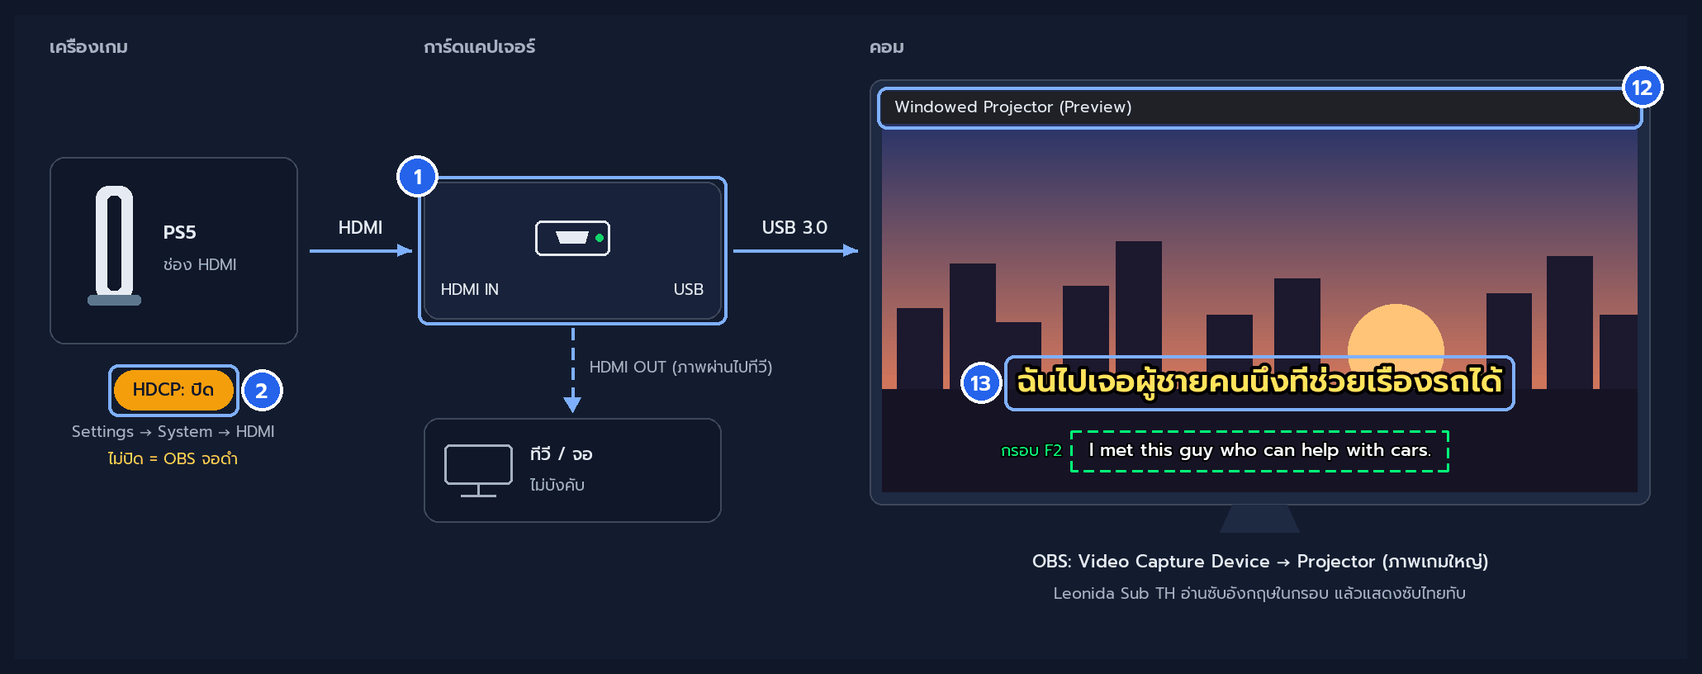
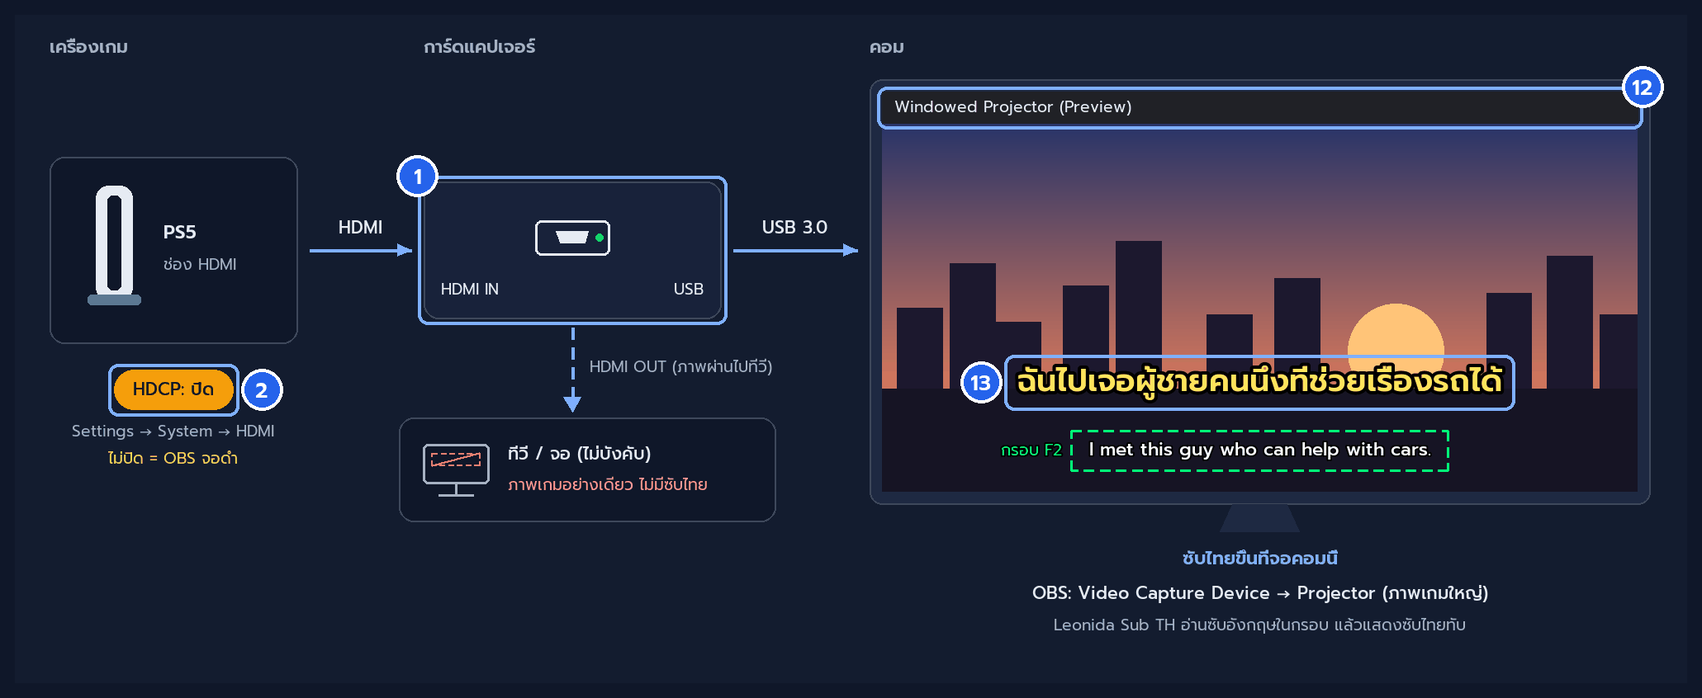
site: sync (107790e)

diff --git a/site/index.html b/site/index.html
@@ -132,6 +132,14 @@
    },
    {
     "@type": "Question",
+    "name": "ซับขึ้นบนทีวีได้ไหม?",
+    "acceptedAnswer": {
+     "@type": "Answer",
+     "text": "ซับไทยขึ้นที่จอคอมเท่านั้น (ทับหน้าต่าง OBS / โปรแกรมการ์ด / Remote Play หรือในจอซับแยก และหน้าเว็บบนมือถือ) ทีวีที่ต่อจากช่อง HDMI OUT ของการ์ดแคปเจอร์จะเห็นแค่ภาพเกม ไม่มีซับไทย เพราะภาพส่งตรงจากการ์ดไปทีวีโดยไม่ผ่านคอม ถ้าอยากเห็นซับบนทีวี ให้ต่อทีวีเข้าคอมด้วยสาย HDMI จากคอม (การ์ดจอ) แล้วใช้ทีวีเป็นจอคอม (กด Win + P เลือก Duplicate หรือ Extend) แล้วเปิดภาพเกม (เช่น Projector ของ OBS) บนจอนั้น หรือดูซับบนมือถือ / iPad แทน ดูวิธีต่อในคู่มือ: https://www.leonidasubth.com/guide#guide-connect"
+    }
+   },
+   {
+    "@type": "Question",
     "name": "ไม่มีเสียงเกมตอนดูผ่านโปรแกรมการ์ด/OBS?",
     "acceptedAnswer": {
      "@type": "Answer",
@@ -351,6 +359,11 @@ kbd.s{min-width:0;font-size:12px;padding:0 6px}
 .dg .thbox{fill:rgba(8,12,22,.88);stroke:rgba(127,176,255,.6);stroke-width:1}
 .dg .thtx{fill:var(--ink);font-size:12.5px;font-weight:500}
 .dg .key{fill:none;stroke:var(--accent);stroke-width:1.5}
+.dg .no{fill:none;stroke:#ff7a7a;stroke-width:1.8;stroke-linecap:round}
+.dg .notx{fill:#ff9a9a;font-size:12.5px;font-weight:500}
+.dg .here{fill:var(--accent);font-size:14px;font-weight:600}
+.dg .tip{fill:rgba(127,176,255,.06);stroke:rgba(127,176,255,.45);stroke-width:1.2;stroke-dasharray:5 4}
+.dg .tiph{fill:var(--ink);font-size:13px;font-weight:600}
 .setup-notes{list-style:none;display:grid;gap:8px;margin-top:14px}
 .setup-notes li{position:relative;padding-left:28px;color:var(--muted);font-size:14.5px}
 .setup-notes li svg{position:absolute;left:0;top:4px;width:18px;height:18px;color:var(--accent)}
@@ -517,16 +530,16 @@ footer a{color:var(--muted);text-underline-offset:3px}
     <div class="head center rv">
       <div class="eyebrow">Setup</div>
       <h2 class="h2">วิธีเชื่อมต่อ ใช้คอมพิวเตอร์เพียงเครื่องเดียว</h2>
-      <p class="lead">ไม่ต้องมีคอมพิวเตอร์เครื่องที่สองหรือจอที่สอง ภาพเกมและซับไทยแสดงอยู่บนจอเดียวกัน เลือกแบบที่สะดวก</p>
+      <p class="lead">ไม่ต้องมีคอมพิวเตอร์เครื่องที่สองหรือจอที่สอง ภาพเกมและซับไทยแสดงอยู่บนจอคอมเดียวกัน (ซับไทยขึ้นที่จอคอมเท่านั้น) เลือกแบบที่สะดวก</p>
     </div>
     <div class="setups">
       <article class="setup rv">
         <span class="badge">แนะนำ</span>
         <h3>แบบที่ 1: การ์ดแคปเจอร์ + โปรแกรมดูภาพ</h3>
         <p>ภาพคมชัดและเสถียรที่สุด ใช้ได้ทั้ง PS5 และ Xbox</p>
-        <svg class="dg" viewBox="0 0 360 566" role="img" aria-labelledby="dg1-t dg1-d">
+        <svg class="dg" viewBox="0 0 360 706" role="img" aria-labelledby="dg1-t dg1-d">
 <title id="dg1-t">แผนผังการต่อแบบที่ 1: การ์ดแคปเจอร์ + โปรแกรมดูภาพจากการ์ด</title>
-<desc id="dg1-d">เครื่อง PS5 หรือ Xbox ต่อสาย HDMI เข้าช่อง HDMI IN ของการ์ดแคปเจอร์ การ์ดแคปเจอร์ต่อสาย USB เข้าคอมพิวเตอร์ Windows 10/11 ซึ่งเปิดโปรแกรมดูภาพจากการ์ด (เช่น OBS) แสดงภาพเกม และ Leonida Sub TH แสดงซับไทยซ้อนบนหน้าต่างนั้นบนจอเดียวกัน ถ้ามีทีวีสามารถต่อ HDMI OUT ของการ์ดแคปเจอร์ไปทีวีได้ (ไม่บังคับ)</desc>
+<desc id="dg1-d">เครื่อง PS5 หรือ Xbox ต่อสาย HDMI เข้าช่อง HDMI IN ของการ์ดแคปเจอร์ การ์ดแคปเจอร์ต่อสาย USB เข้าคอมพิวเตอร์ Windows 10/11 ซึ่งเปิดโปรแกรมดูภาพจากการ์ด (เช่น OBS) แสดงภาพเกม และ Leonida Sub TH แสดงซับไทยซ้อนบนหน้าต่างนั้น ซับไทยขึ้นที่จอคอมนี้เท่านั้น ถ้ามีทีวีสามารถต่อ HDMI OUT ของการ์ดแคปเจอร์ไปทีวีได้ (ไม่บังคับ) แต่ทีวีจะเห็นแค่ภาพเกม ไม่มีซับไทย ถ้าอยากเห็นซับบนทีวี ให้ต่อทีวีเข้าคอมด้วยสาย HDMI จากคอมแล้วใช้เป็นจอคอม</desc>
 <defs><marker id="ar1" viewBox="0 0 10 10" refX="8" refY="5" markerWidth="7" markerHeight="7" orient="auto-start-reverse"><path class="ah" d="M0 0L10 5L0 10z"/></marker><marker id="ao1" viewBox="0 0 10 10" refX="8" refY="5" markerWidth="7" markerHeight="7" orient="auto-start-reverse"><path class="ah opt" d="M0 0L10 5L0 10z"/></marker><linearGradient id="sky1" x1="0" y1="0" x2="0" y2="1"><stop offset="0" stop-color="#1b2540"/><stop offset="1" stop-color="#111829"/></linearGradient></defs>
 <g aria-hidden="true">
 <rect class="ico fillbox" x="100" y="20" width="100" height="44" rx="8"/><path class="ico" d="M114 50h34"/><circle cx="186" cy="42" r="3" fill="var(--accent)"/>
@@ -538,13 +551,18 @@ footer a{color:var(--muted);text-underline-offset:3px}
 <text class="sm" x="140" y="145" text-anchor="end">HDMI IN</text>
 <path class="wire opt" d="M215 173H305V204" marker-end="url(#ao1)"/>
 <text class="sm" x="262" y="165" text-anchor="middle">HDMI OUT</text>
+<rect x="263" y="213" width="84" height="50" rx="3" fill="url(#sky1)"/>
 <rect class="ico" x="262" y="212" width="86" height="52" rx="4"/>
+<rect x="285" y="252" width="40" height="3" rx="1.5" fill="#fff" opacity=".8"/>
+<rect class="no" x="272" y="232" width="66" height="14" rx="3" stroke-dasharray="4 3"/>
+<path class="no" d="M274 246L336 232"/>
 <path class="ico" d="M290 272h30"/>
-<text class="sm" x="305" y="290" text-anchor="middle">ทีวี (ไม่บังคับ)</text>
-<path class="wire" d="M150 196V290" marker-end="url(#ar1)"/>
+<text class="lbl" x="354" y="292" text-anchor="end">ทีวี (ผ่าน HDMI OUT)</text>
+<text class="notx" x="354" y="311" text-anchor="end">ภาพเกมอย่างเดียว ไม่มีซับไทย</text>
+<path class="wire" d="M150 196V340" marker-end="url(#ar1)"/>
 <text class="wl" x="160" y="248">USB</text>
 </g>
-<g aria-hidden="true" transform="translate(-10 0)">
+<g aria-hidden="true" transform="translate(-10 50)">
 <rect class="ico" x="20" y="300" width="280" height="172" rx="10"/>
 <rect x="30" y="310" width="260" height="152" fill="url(#sky1)"/>
 <rect class="bar" x="30" y="310" width="260" height="20"/>
@@ -556,14 +574,20 @@ footer a{color:var(--muted);text-underline-offset:3px}
 <text class="thtx" x="160" y="445.5" text-anchor="middle">ฉันไปเจอผู้ชายคนนึงที่ช่วยเรื่องรถได้</text>
 <path class="ico" d="M142 472l-6 22h48l-6-22M118 496h84"/>
 <text class="lbl" x="160" y="522" text-anchor="middle">คอมพิวเตอร์ (Windows 10/11)</text>
-<rect class="key" x="24" y="540" width="16" height="12" rx="3"/>
-<text class="sm" x="48" y="551">ซับไทยจาก Leonida Sub TH ลอยทับหน้าต่างภาพเกม</text>
+<text class="here" x="160" y="545" text-anchor="middle">ซับไทยขึ้นที่จอคอมนี้</text>
+<rect class="key" x="24" y="560" width="16" height="12" rx="3"/>
+<text class="sm" x="48" y="571">ซับไทยจาก Leonida Sub TH ลอยทับหน้าต่างภาพเกม</text>
+</g>
+<g aria-hidden="true">
+<rect class="tip" x="6" y="638" width="348" height="62" rx="8"/>
+<text class="tiph" x="18" y="662">อยากเห็นซับบนทีวี?</text>
+<text class="sm" x="18" y="684">ต่อทีวีเข้าคอม (สาย HDMI จากคอม) แล้วใช้เป็นจอคอม</text>
 </g>
 </svg>
         <ul class="setup-notes">
           <li><svg viewBox="0 0 24 24" fill="none" stroke="currentColor" stroke-width="2" stroke-linecap="round" stroke-linejoin="round" aria-hidden="true"><circle cx="12" cy="12" r="9"/><path d="M12 11v6M12 7.5v.01"/></svg>เปิดโปรแกรมดูภาพจากการ์ดแคปเจอร์ (เช่น OBS หรือโปรแกรมของการ์ด) ให้แสดงภาพเกม ถ้าใช้ OBS ให้เปิดหน้าต่าง Preview หรือ Fullscreen Projector แล้ว Leonida Sub TH จะอ่านซับจากหน้าต่างนั้นและแสดงซับไทยซ้อนบนจอเดียวกัน</li>
           <li><svg viewBox="0 0 24 24" fill="none" stroke="currentColor" stroke-width="2" stroke-linecap="round" stroke-linejoin="round" aria-hidden="true"><circle cx="12" cy="12" r="9"/><path d="M12 11v6M12 7.5v.01"/></svg>การดูภาพเกมผ่านการ์ดแคปเจอร์บนจอคอมพิวเตอร์จะมีดีเลย์เล็กน้อย</li>
-          <li><svg viewBox="0 0 24 24" fill="none" stroke="currentColor" stroke-width="2" stroke-linecap="round" stroke-linejoin="round" aria-hidden="true"><circle cx="12" cy="12" r="9"/><path d="M12 11v6M12 7.5v.01"/></svg>ถ้ามีทีวี ต่อ HDMI OUT ไปเล่นที่ทีวีได้ ไม่มีดีเลย์ (ไม่บังคับ) โดยซับไทยยังแสดงที่จอคอมพิวเตอร์</li>
+          <li><svg viewBox="0 0 24 24" fill="none" stroke="currentColor" stroke-width="2" stroke-linecap="round" stroke-linejoin="round" aria-hidden="true"><circle cx="12" cy="12" r="9"/><path d="M12 11v6M12 7.5v.01"/></svg><span><b>ซับไทยขึ้นที่จอคอมเท่านั้น</b> ถ้ามีทีวี ต่อ HDMI OUT ของการ์ดไปเล่นที่ทีวีได้ ไม่มีดีเลย์ (ไม่บังคับ) แต่ทีวีจะเห็นแค่ภาพเกม <b>ไม่มีซับไทย</b> — ถ้าอยากเห็นซับบนทีวี ให้ต่อทีวีเข้าคอมด้วยสาย HDMI จากคอม แล้วใช้ทีวีเป็นจอคอม (กด <kbd class="s">Win</kbd> + <kbd class="s">P</kbd> เลือก Duplicate หรือ Extend) หรือดูซับบนมือถือ / iPad แทน</span></li>
         </ul>
         <div class="kit">
           <h4>อุปกรณ์ที่ต้องมี</h4>
@@ -581,7 +605,7 @@ footer a{color:var(--muted);text-underline-offset:3px}
         <span class="badge">ไม่ต้องซื้ออุปกรณ์เพิ่ม</span>
         <h3>แบบที่ 2: PS Remote Play</h3>
         <p>เล่น PS5 บนคอมพิวเตอร์ผ่านเครือข่ายในบ้าน</p>
-        <svg class="dg" viewBox="0 0 360 566" role="img" aria-labelledby="dg2-t dg2-d">
+        <svg class="dg" viewBox="0 0 360 586" role="img" aria-labelledby="dg2-t dg2-d">
 <title id="dg2-t">แผนผังการต่อแบบที่ 2: PS Remote Play</title>
 <desc id="dg2-d">เครื่อง PS5 เชื่อมต่อเครือข่ายในบ้านผ่าน Wi-Fi หรือสาย LAN คอมพิวเตอร์ Windows 10/11 ในเครือข่ายเดียวกันเปิดโปรแกรม PS Remote Play และ Leonida Sub TH แสดงซับไทยซ้อนบนหน้าต่าง Remote Play บนจอเดียวกัน ไม่ต้องซื้ออุปกรณ์เพิ่ม</desc>
 <defs><marker id="ar2" viewBox="0 0 10 10" refX="8" refY="5" markerWidth="7" markerHeight="7" orient="auto-start-reverse"><path class="ah" d="M0 0L10 5L0 10z"/></marker><marker id="ao2" viewBox="0 0 10 10" refX="8" refY="5" markerWidth="7" markerHeight="7" orient="auto-start-reverse"><path class="ah opt" d="M0 0L10 5L0 10z"/></marker><linearGradient id="sky2" x1="0" y1="0" x2="0" y2="1"><stop offset="0" stop-color="#1b2540"/><stop offset="1" stop-color="#111829"/></linearGradient></defs>
@@ -610,8 +634,9 @@ footer a{color:var(--muted);text-underline-offset:3px}
 <text class="thtx" x="160" y="445.5" text-anchor="middle">ฉันไปเจอผู้ชายคนนึงที่ช่วยเรื่องรถได้</text>
 <path class="ico" d="M142 472l-6 22h48l-6-22M118 496h84"/>
 <text class="lbl" x="160" y="522" text-anchor="middle">คอมพิวเตอร์ (Windows 10/11)</text>
-<rect class="key" x="24" y="540" width="16" height="12" rx="3"/>
-<text class="sm" x="48" y="551">ซับไทยจาก Leonida Sub TH ลอยทับ Remote Play</text>
+<text class="here" x="160" y="545" text-anchor="middle">ซับไทยขึ้นที่จอคอมนี้</text>
+<rect class="key" x="24" y="560" width="16" height="12" rx="3"/>
+<text class="sm" x="48" y="571">ซับไทยจาก Leonida Sub TH ลอยทับ Remote Play</text>
 </g>
 </svg>
         <ul class="setup-notes">
@@ -741,6 +766,7 @@ footer a{color:var(--muted);text-underline-offset:3px}
       <details class="rv"><summary>ปรับหน้าตาซับได้อย่างไร?</summary><p>ไปที่ ตั้งค่า › หน้าตาซับ ปรับฟอนต์ ขนาด สีตัวอักษร (แยกกันระหว่างซับบนจอเกมกับจอซับแยก) และระยะขอบของกล่องดำหลังซับได้ หากต้องการปิด "แสดงประโยคก่อนหน้า" บนจอเกมเมื่อจอเล็ก อยู่ใน "ขั้นสูง" ของแท็บเดียวกัน (จอซับแยกยังแสดงประโยคก่อนหน้าเสมอ) ส่วนขนาดตัวอักษรของจอซับแยกตั้งเองได้ที่แท็บ จอซับแยก / มือถือ ทุกกลุ่มมีปุ่ม "ค่าเริ่มต้น" คืนค่าได้ในคลิกเดียว</p></details>
       <details class="rv"><summary>ปุ่ม F4 ทำอะไร?</summary><p>F4 เพิ่มขนาดตัวอักษรของซับบนจอเกมทีละขั้น เมื่อถึงขั้นใหญ่สุดจะวนกลับไปขั้นเล็กสุด และปิดขนาดอัตโนมัติ</p></details>
       <details class="rv"><summary>ดูซับบนมือถือหรือ iPad ได้อย่างไร?</summary><p>ได้ทั้ง iPhone, iPad และ Android ไม่ต้องติดตั้งแอปเพิ่ม 1) ให้มือถือหรือ iPad เชื่อมต่อ Wi-Fi เดียวกับคอมพิวเตอร์ 2) ในหน้าหลักของโปรแกรมกด "เปิดเว็บซับ + QR" (หรือ ตั้งค่า › จอซับแยก / มือถือ › เปิดเว็บซับ) 3) ครั้งแรก Windows จะถามเรื่อง Firewall ให้กด "อนุญาต (Allow)" สำหรับเครือข่ายส่วนตัว 4) สแกน QR ด้วยกล้องแล้วแตะลิงก์ หรือพิมพ์ที่อยู่ที่โปรแกรมแสดง (เช่น http://192.168.1.xxx:8765/) ใน Safari หรือ Chrome บนมือถือเลื่อนย้อนดูซับก่อนหน้าได้ และเลือกได้ว่าจะแสดงซับอังกฤษใต้ซับไทยหรือไม่ หากต้องการดูซับที่มือถืออย่างเดียว ให้ติ๊กออกที่ "แสดงซับบนจอเกมด้วย" เคล็ดลับสำหรับ iPad: ตั้งล็อกอัตโนมัติเป็น "ไม่ใช้" เพื่อไม่ให้จอดับ และกด "เพิ่มไปยังหน้าจอโฮม" ใน Safari เพื่อเปิดได้เร็วขึ้น หากเข้าไม่ได้ ให้ตรวจสอบว่าอยู่ Wi-Fi วงเดียวกัน (ไม่ใช่ Guest Wi-Fi) และได้อนุญาต Firewall แล้ว หากที่อยู่ IP ของคอมพิวเตอร์เปลี่ยน ให้สแกน QR ใหม่</p></details>
+      <details class="rv"><summary>ซับขึ้นบนทีวีได้ไหม?</summary><p>ซับไทยขึ้นที่จอคอมเท่านั้น (ทับหน้าต่าง OBS / โปรแกรมการ์ด / Remote Play หรือในจอซับแยก และหน้าเว็บบนมือถือ) ทีวีที่ต่อจากช่อง HDMI OUT ของการ์ดแคปเจอร์จะเห็นแค่ภาพเกม ไม่มีซับไทย เพราะภาพส่งตรงจากการ์ดไปทีวีโดยไม่ผ่านคอม ถ้าอยากเห็นซับบนทีวี ให้ต่อทีวีเข้าคอมด้วยสาย HDMI จากคอม (การ์ดจอ) แล้วใช้ทีวีเป็นจอคอม (กด <kbd class="s">Win</kbd> + <kbd class="s">P</kbd> เลือก Duplicate หรือ Extend) แล้วเปิดภาพเกม (เช่น Projector ของ OBS) บนจอนั้น หรือดูซับบนมือถือ / iPad แทน <a href="guide#guide-connect">ดูวิธีต่อในคู่มือ</a></p></details>
       <details class="rv"><summary>ไม่มีเสียงเกมตอนดูผ่านโปรแกรมการ์ด/OBS?</summary><p>ปกติ OBS รับเสียงจากการ์ดแคปเจอร์แล้ว แต่ค่าเริ่มต้นจะส่งเข้าสตรีม/อัดอย่างเดียว ไม่เล่นออกลำโพงหรือหูฟัง แก้ได้ 2 แบบ เลือกแบบเดียว: 1) คลิกขวาซอร์สการ์ด → Properties → Audio Output Mode เลือก "Output desktop audio (DirectSound)" หรือ 2) Audio Mixer → ปุ่มจุดสามจุด/เฟือง → Advanced Audio Properties → Audio Monitoring เลือก "Monitor and Output" แล้วตั้ง Settings → Audio → Advanced → Monitoring Device เป็นลำโพง/หูฟังที่ใช้อยู่ เรื่องนี้เป็นการตั้งค่าของ OBS และ Windows (Leonida Sub TH ไม่ได้ยุ่งกับเสียง) <a href="guide#guide-audio">ดูวิธีทีละขั้นพร้อมภาพในคู่มือ</a></p></details>
     </div>
   </div>

diff --git a/site/guide.html b/site/guide.html
@@ -175,6 +175,14 @@ footer a{color:var(--muted)}
   <h2><small>03</small>วิธีต่อเครื่อง</h2>
   <p class="intro">ภาพเกมต้องขึ้นบนจอคอมก่อน โปรแกรมจึงอ่านซับได้ ทำได้ 2 แบบ: <b>การ์ดแคปเจอร์ + โปรแกรมดูภาพ (เช่น OBS)</b> หรือ <b>PS Remote Play</b></p>
   <div class="card-link">ดูแผนผังการต่อพร้อมอุปกรณ์ที่ต้องใช้ <a href="index.html#setup">ไปที่ส่วนวิธีเชื่อมต่อ →</a></div>
+  <div class="tips warn">
+    <h3>ซับไทยขึ้นที่จอคอมเท่านั้น</h3>
+    <ul>
+      <li>ซับไทยลอยทับหน้าต่างภาพเกมบนจอคอม (OBS / โปรแกรมการ์ด / Remote Play) หรือดูในจอซับแยกและบนมือถือ / iPad</li>
+      <li>ทีวีที่ต่อจากช่อง <b>HDMI OUT</b> ของการ์ดแคปเจอร์จะเห็นแค่ภาพเกม <b>ไม่มีซับไทย</b> เพราะภาพส่งตรงจากการ์ดไปทีวีโดยไม่ผ่านคอม</li>
+      <li>อยากเห็นซับบนทีวี: ต่อทีวีเข้าคอมด้วยสาย HDMI จากคอม (การ์ดจอ) แล้วใช้ทีวีเป็นจอคอม (<kbd>Win</kbd> + <kbd>P</kbd> → Duplicate หรือ Extend) แล้วเปิดภาพเกมบนจอนั้น</li>
+    </ul>
+  </div>
   <p class="intro">ใช้การ์ดแคปเจอร์กับ OBS? ดูวิธีตั้งทีละขั้นที่ <a href="#guide-capture">ตั้ง OBS ดูภาพจากการ์ดแคปเจอร์</a></p>
   <a class="top" href="#top">↑ กลับด้านบน</a>
 </section>
@@ -291,10 +299,10 @@ footer a{color:var(--muted)}
       <li>แอปดูหนัง/สตรีมมิ่งบางแอปบน PS5 ต้องเปิด HDCP ถ้าจะดูแอปพวกนั้น ให้เปิดกลับชั่วคราว</li>
     </ul>
   </div>
-  <figure><a href="assets/guide/guide-capture.png?v=20261122"><img src="assets/guide/guide-capture.png?v=20261122" width="2061" height="816" loading="lazy" alt="แผนผัง: PS5 (HDCP: ปิด) ต่อสาย HDMI เข้าช่อง HDMI IN ของการ์ดแคปเจอร์ การ์ดต่อ USB 3.0 เข้าคอม ช่อง HDMI OUT ของการ์ดต่อทีวีได้ (ไม่บังคับ) บนคอมเปิดหน้าต่าง Windowed Projector (Preview) ของ OBS ที่มีภาพเกม กรอบ F2 ครอบบรรทัดซับอังกฤษ และซับไทยของ Leonida Sub TH ลอยอยู่ด้านบน"></a><figcaption>แผนผังวาดเพื่ออธิบาย ไม่ใช่หน้าจอ OBS จริง</figcaption></figure>
+  <figure><a href="assets/guide/guide-capture.png?v=20261122b"><img src="assets/guide/guide-capture.png?v=20261122b" width="2061" height="846" loading="lazy" alt="แผนผัง: PS5 (HDCP: ปิด) ต่อสาย HDMI เข้าช่อง HDMI IN ของการ์ดแคปเจอร์ การ์ดต่อ USB 3.0 เข้าคอม ช่อง HDMI OUT ของการ์ดต่อทีวีได้ (ไม่บังคับ) แต่ทีวีเห็นแค่ภาพเกม ไม่มีซับไทย บนคอมเปิดหน้าต่าง Windowed Projector (Preview) ของ OBS ที่มีภาพเกม กรอบ F2 ครอบบรรทัดซับอังกฤษ และซับไทยของ Leonida Sub TH ลอยอยู่ด้านบน — ซับไทยขึ้นที่จอคอมนี้เท่านั้น"></a><figcaption>แผนผังวาดเพื่ออธิบาย ไม่ใช่หน้าจอ OBS จริง</figcaption></figure>
   <h3 class="method">ต่อสายและตั้ง PS5</h3>
   <ol class="steps">
-    <li><span class="n">1</span><b>ต่อสาย</b> — สาย HDMI จาก PS5 เข้าช่อง <b>HDMI IN</b> ของการ์ด แล้วต่อสาย USB จากการ์ดเข้าคอม (ใช้พอร์ต <b>USB 3.0</b> ที่ตัวเครื่อง มักเป็นช่องสีฟ้าหรือมีสัญลักษณ์ SS) ถ้าการ์ดมีช่อง <b>HDMI OUT</b> จะต่อทีวี/จอไว้ด้วยก็ได้ (ไม่บังคับ) ภาพจะผ่านไปที่ทีวีด้วย</li>
+    <li><span class="n">1</span><b>ต่อสาย</b> — สาย HDMI จาก PS5 เข้าช่อง <b>HDMI IN</b> ของการ์ด แล้วต่อสาย USB จากการ์ดเข้าคอม (ใช้พอร์ต <b>USB 3.0</b> ที่ตัวเครื่อง มักเป็นช่องสีฟ้าหรือมีสัญลักษณ์ SS) ถ้าการ์ดมีช่อง <b>HDMI OUT</b> จะต่อทีวี/จอไว้ด้วยก็ได้ (ไม่บังคับ) ภาพเกมจะผ่านไปที่ทีวีด้วย แต่<b>ทีวีไม่มีซับไทย</b> ซับไทยขึ้นที่จอคอมเท่านั้น</li>
     <li><span class="n">2</span><b>ปิด HDCP</b> — PS5: <b>Settings → System → HDMI</b> → ปิด <b>Enable HDCP</b> (ดูกล่องสีเหลืองด้านบน)</li>
   </ol>
   <h3 class="method">ตั้ง OBS</h3>
@@ -318,13 +326,21 @@ footer a{color:var(--muted)}
   <ol class="steps">
     <li><span class="n">11</span><b>ขยายภาพให้เต็ม</b> — คลิกขวาซอร์ส → <b>Transform</b> → <b>Fit to screen</b> (<kbd>Ctrl</kbd> + <kbd>F</kbd>)</li>
   </ol>
-  <h3 class="method">เปิดภาพใหญ่ไว้เล่น</h3>
+  <h3 class="method">เล่นเต็มจอ</h3>
   <ol class="steps">
-    <li><span class="n">12</span><b>เปิด Projector</b> — คลิกขวาที่ภาพพรีวิว (ภาพเกมกลางหน้าต่าง OBS) → <b>Fullscreen Projector (Preview)</b> แล้วเลือกจอ จะได้ภาพเกมเต็มจอนั้น หรือเลือก <b>Windowed Projector (Preview)</b> ได้หน้าต่างแยกที่ย่อ/ขยายได้ (ปิดได้ด้วยคลิกขวา → <b>Close</b>) อย่าย่อ (minimize) หน้าต่าง Projector ตอนเล่น</li>
+    <li><span class="n">12</span><b>เปิด Fullscreen Projector</b> — คลิกขวาที่ภาพพรีวิว (ภาพเกมกลางหน้าต่าง OBS) → <b>Fullscreen Projector (Preview)</b> → เลือกจอที่จะเล่น (คอมที่มีจอเดียวจะมีให้เลือกจอเดียว) ภาพเกมจะเต็มจอนั้นทันที
+      <br>ออกจากเต็มจอ: กด <kbd>Esc</kbd> หรือคลิกขวาที่ภาพ → <b>Close</b>
+      <br>ซับไทยของ Leonida Sub TH ยังลอยอยู่บนภาพเต็มจอตามปกติ</li>
   </ol>
+  <div class="tips">
+    <h3>ไม่อยากเต็มจอ: ใช้ Windowed Projector</h3>
+    <ul>
+      <li>คลิกขวาที่ภาพพรีวิว → <b>Windowed Projector (Preview)</b> จะได้หน้าต่างแยกที่ลากขนาดหรือกดขยาย (maximize) ได้ แต่อย่าย่อ (minimize) หน้าต่างนี้ตอนเล่น ไม่อย่างนั้นโปรแกรมจะอ่านซับไม่ได้</li>
+    </ul>
+  </div>
   <h3 class="method">ตั้ง Leonida Sub TH</h3>
   <ol class="steps">
-    <li><span class="n">13</span><b>เลือกหน้าต่าง Projector</b> — เปิดซับภาษาอังกฤษในเกมก่อน (<b>Settings → UI → Subtitles</b>) แล้วใน Leonida Sub TH กด <kbd>F2</kbd> คลิกหน้าต่าง Projector แล้วลากกรอบให้ครอบบรรทัดซับอังกฤษ (ดู <a href="#guide-window">เลือกหน้าต่าง + ลากกรอบ</a>) ซับไทยจะขึ้นทับภาพเกม</li>
+    <li><span class="n">13</span><b>เลือกหน้าต่าง Projector</b> — เปิดซับภาษาอังกฤษในเกมก่อน (<b>Settings → UI → Subtitles</b>) แล้วใน Leonida Sub TH กด <kbd>F2</kbd> คลิกที่ภาพ Projector (ทั้งแบบเต็มจอและแบบหน้าต่าง) แล้วลากกรอบให้ครอบบรรทัดซับอังกฤษ (ดู <a href="#guide-window">เลือกหน้าต่าง + ลากกรอบ</a>) ซับไทยจะขึ้นทับภาพเกม</li>
   </ol>
   <h3 class="method">ทางเลือก: ให้โปรแกรมอ่านจากการ์ดโดยตรง (ไม่ใช้ OBS)</h3>
   <p class="intro">ไปที่ <b>ตั้งค่า › แหล่งภาพ</b> เลือก <span class="ui">การ์ดแคปเจอร์ / กล้องโดยตรง</span> เลือกการ์ดในรายการ แล้วกด <span class="ui">เลือกกรอบซับบนภาพการ์ด</span> (ดู <a href="#guide-window">เลือกหน้าต่าง + ลากกรอบ</a>) — การ์ดหนึ่งตัวใช้ได้ทีละโปรแกรม ต้องปิด OBS (หรือโปรแกรมของการ์ดเอง) ก่อน แบบนี้คอมจะไม่แสดงภาพเกม จึงเหมาะกับคนที่เล่นจากทีวีที่ต่อช่อง HDMI OUT ของการ์ด แล้วดูซับไทยที่ลอยบนจอคอม จอซับแยก หรือมือถือ</p>
@@ -334,6 +350,7 @@ footer a{color:var(--muted)}
       <li><b>OBS จอดำ</b> — เช็คว่าปิด HDCP ที่ PS5 แล้ว · เสียบ USB 3.0 ที่ตัวเครื่องโดยตรง (ไม่ผ่าน hub) · ปิดโปรแกรมอื่นที่เปิดการ์ดอยู่ (โปรแกรมของการ์ด หรือ Leonida Sub TH แบบอ่านจากการ์ดโดยตรง) · คลิกขวาซอร์ส → <b>Properties</b> กด <b>Deactivate</b> แล้ว <b>Activate</b> หรือลบซอร์สแล้วเพิ่มใหม่ (อย่ามีซอร์สการ์ดซ้ำ 2 อัน)</li>
       <li><b>สีซีด หรือมืดเกินไป</b> — คลิกขวาซอร์ส → <b>Properties</b> → <b>Color Range</b> ลอง <b>Full</b> หรือ <b>Limited</b> ให้ตรงกับ PS5 (<b>Settings → Screen and Video → Video Output → RGB Range</b>) ถ้าเปิด HDR ไว้แล้วภาพซีด ลองตั้ง <b>HDR</b> ในหน้าเดียวกันเป็น <b>Off</b></li>
       <li><b>ภาพหน่วง / กระตุก</b> — ตั้ง <b>Buffering</b> เป็น <b>Disable</b> และ FPS เป็น 60 แล้วเล่นจาก Projector แทนพรีวิวเล็กในหน้าต่าง OBS ถ้ายังหน่วงสำหรับเกมเร็ว ๆ ให้เล่นจากทีวีที่ต่อช่อง HDMI OUT ของการ์ด ส่วนคอมมีไว้อ่านซับ</li>
+      <li><b>ทีวีที่ต่อ HDMI OUT ไม่มีซับไทย</b> — เป็นปกติ ภาพที่ช่อง HDMI OUT ส่งตรงจากการ์ดไปทีวีโดยไม่ผ่านคอม ซับไทยจึงขึ้นที่จอคอมเท่านั้น ถ้าอยากเห็นซับบนทีวี ให้ต่อทีวีเข้าคอมด้วยสาย HDMI จากคอม แล้วใช้เป็นจอคอม (<kbd>Win</kbd> + <kbd>P</kbd> → Duplicate หรือ Extend) แล้วเปิด Fullscreen Projector บนจอทีวี หรือดูซับบนมือถือ (<a href="#guide-mobile">มือถือ / iPad</a>)</li>
       <li><b>การ์ดรับ 4K ไม่ได้</b> — การ์ดหลายรุ่นรับภาพได้แค่ 1080p (บางรุ่นส่ง 4K ผ่านไปทีวีที่ช่อง HDMI OUT ได้ แต่ส่งเข้าคอมได้แค่ 1080p) ถ้าภาพไม่ขึ้นตอน PS5 ส่ง 4K ให้ตั้ง <b>Settings → Screen and Video → Video Output → Resolution</b> เป็น <b>1080p</b></li>
     </ul>
   </div>
